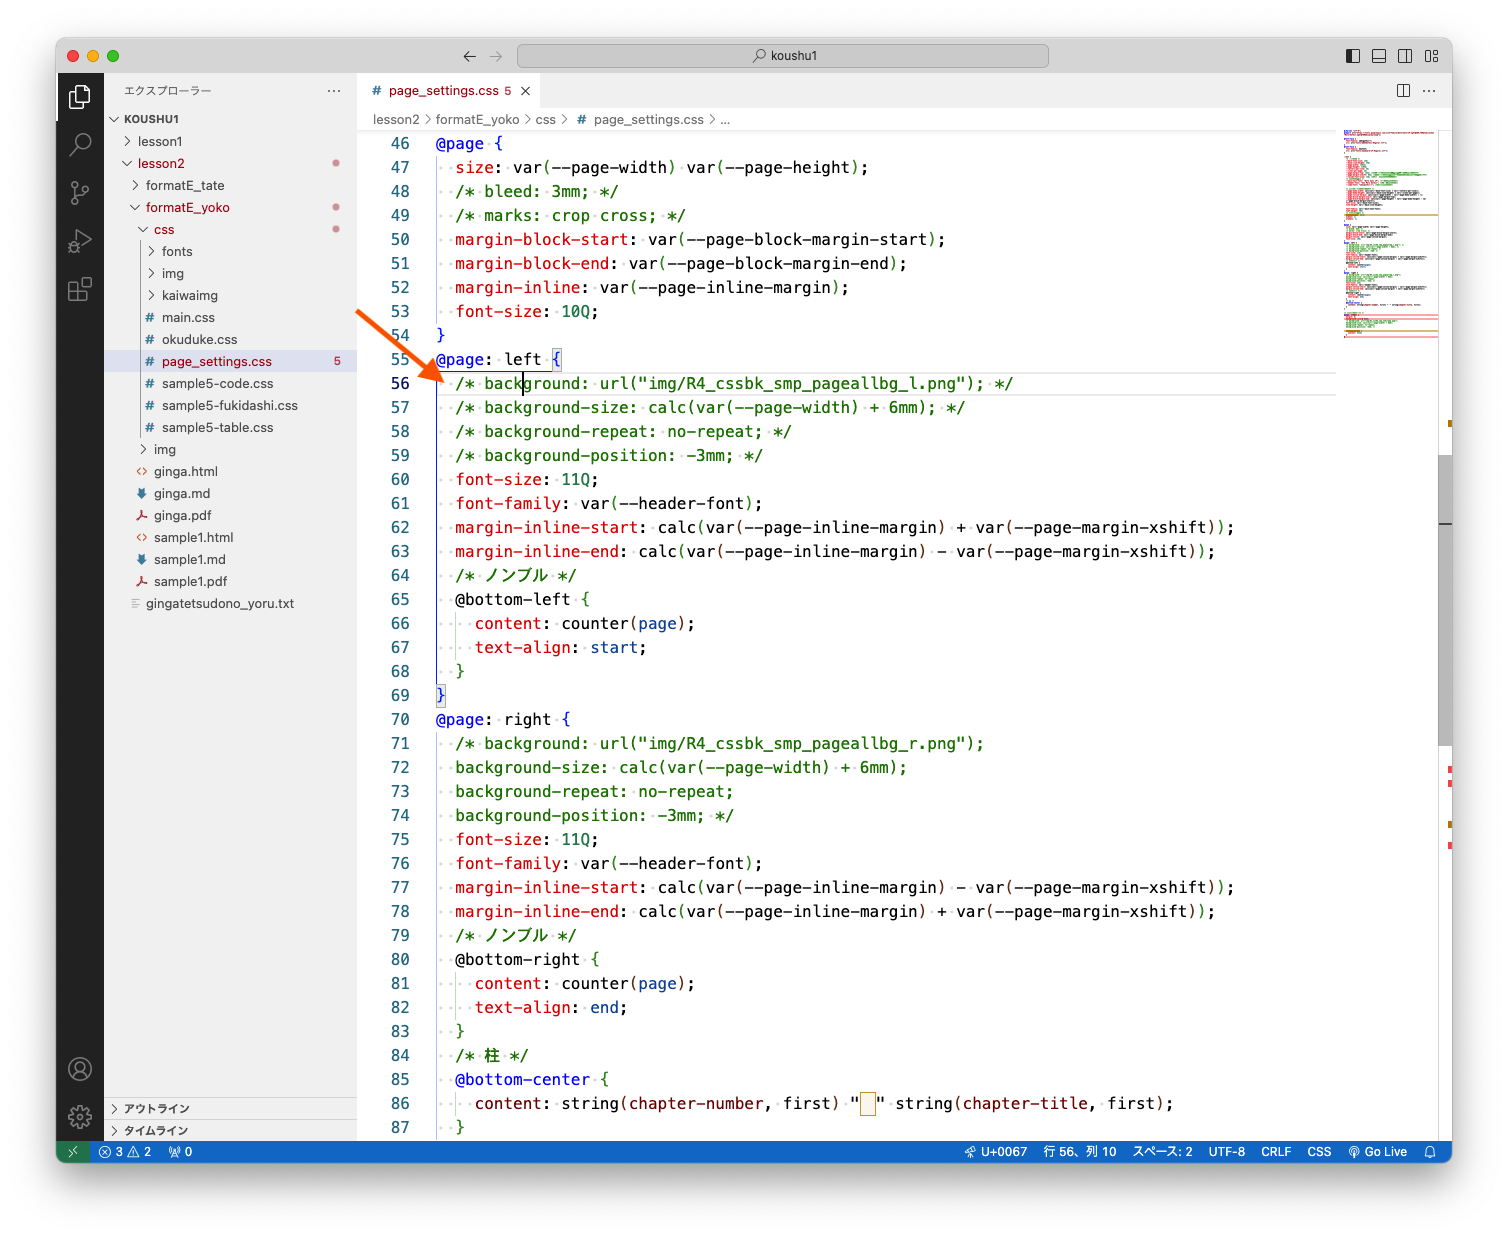
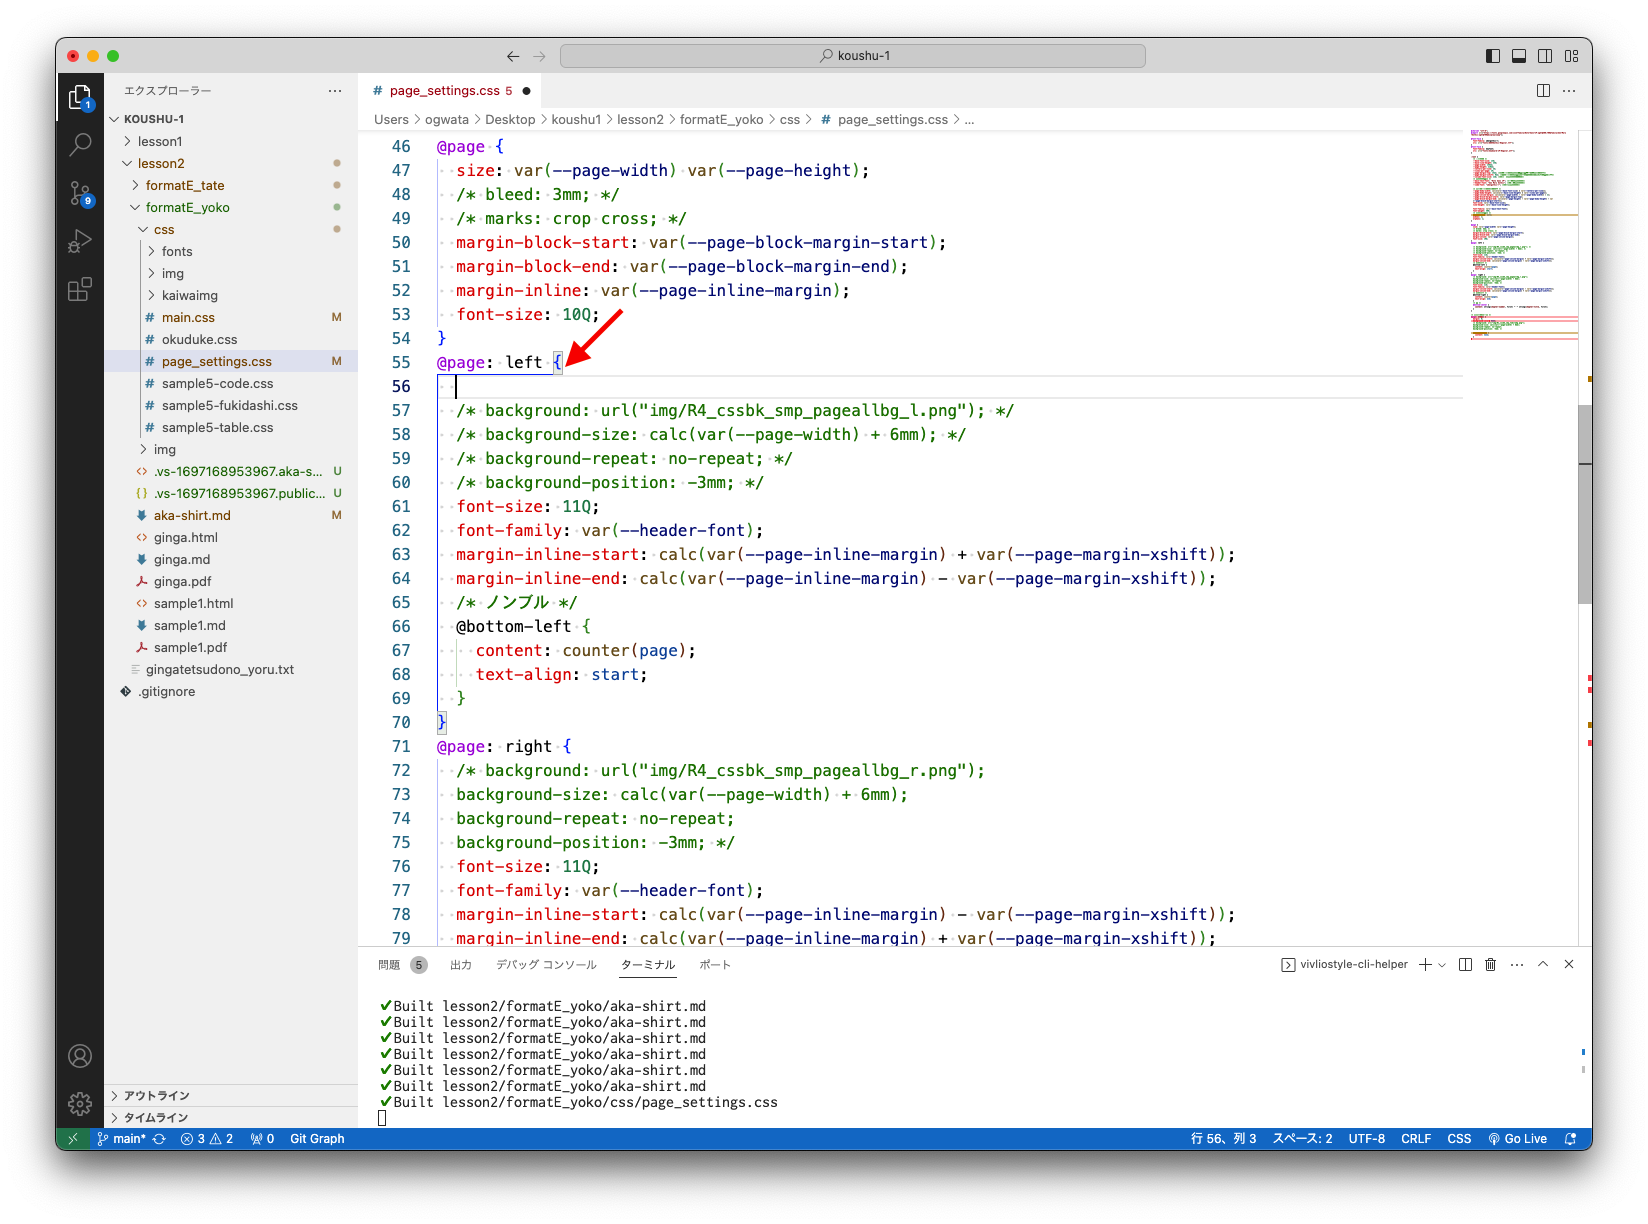
@lwohtsuコメント対応

diff --git a/ja/3-create-your-book-in-vivliostyle-1/1-setting-of-main-text-area.md b/ja/3-create-your-book-in-vivliostyle-1/1-setting-of-main-text-area.md
@@ -28,35 +28,33 @@
 
 - ここからスタイルシートの中の本文領域に関わるプロパティを書き換えて、それぞれの役割を確認していきましょう
 - 13行目、`:root {`以下が本文領域に関わる指定です
-- まず、`--line-height:`の値を`40Q`に書き換えて、プレビューを確認してみましょう**（4:18）**
-    - **補足** この時、接頭辞`--`は[変数（カスタムプロパティ）](https://developer.mozilla.org/ja/docs/Web/CSS/Using_CSS_custom_properties)であることを表します。これはユーザーによって定義された（カスタマイズされた）再利用可能なプロパティです。**もう具体的に詳しく、プロパティとの違いの説明が必要**
+- まず、行送りの値である`--line-height:`を`40Q`に書き換えて、プレビューを確認してみましょう**（4:18）**
+    - **補足** --（ハイフン2つ）で始まる部分は、変数（カスタムプロパティ）というものです。変数に本文の文字サイズ、行送り、1行文字数、1ページ行数、マージンを指定すると、それをもとに自動計算して本文領域のスタイルが自動設定されるようになっています。カスタムプロパティについて詳しく知りたい方は、以下を参照してください。
+        - [CSS カスタムプロパティ（変数）の使用［MDN］](https://developer.mozilla.org/ja/docs/Web/CSS/Using_CSS_custom_properties)
 
 ![](/images/3-create-your-book-in-vivliostyle-1/1-setting-of-main-text-area/3-1-5.png)
 
-- この時プレビューは以下のようになります。行送りが極端に広くなったことが確認できます**（4:36）**
-- つまり、`--line-height:`は行送りの指定です
+- この時プレビューは以下のようになります。行送りが40Q、1ページ行数が20だとページに収まり切らないため、溢れてしまっています。**（4:36）**
 
 ![](/images/3-create-your-book-in-vivliostyle-1/1-setting-of-main-text-area/3-1-6.png)
 
-- つぎに`--line-height:`の値を`24Q`に戻した上で、`--letters-per-line:`を40に減らしてみましょう**（5:20）**
+- つぎに`--line-height:`の値を`24Q`に戻した上で、1行の字詰めの値である`--letters-per-line:`を、`40`に減らしてみましょう**（5:20）**
 
 ![](/images/3-create-your-book-in-vivliostyle-1/1-setting-of-main-text-area/3-1-7.png)
 
-- この時プレビューは以下のようになります。1ページ当たりの行数が減ったことが確認できます。
-- つまり、`--letters-per-line:`は1行の字詰めの指定です**（5:39）**
+- この時プレビューは以下のようになります。字詰めが減ったことが確認できます。**（5:39）**
 
 ![](/images/3-create-your-book-in-vivliostyle-1/1-setting-of-main-text-area/3-1-8.png)
 
-- つぎに`--lines-per-page:`を`15`に減らしてみましょう。
+- つぎに1ページ当たりの行数の値である`--lines-per-page:`を、`15`に減らしてみましょう。
 
 ![](/images/3-create-your-book-in-vivliostyle-1/1-setting-of-main-text-area/3-1-9.png)
 
-- 1ページ当たり15行になったことが確認できます。
-- つまり、`--lines-per-page:`は1ページの行数の指定です
+- 1ページ当たり15行になりました。
 
 ![](/images/3-create-your-book-in-vivliostyle-1/1-setting-of-main-text-area/3-1-10.png)
 
-- つぎに`--page-margin-top:`を`30mm`に増やしてみましょう**（6:52）**
+- つぎに上側マージンを指定する値である`--page-margin-top:`を、`30mm`に増やしてみましょう**（6:52）**
 
 ![](/images/3-create-your-book-in-vivliostyle-1/1-setting-of-main-text-area/3-1-11.png)
 
@@ -64,10 +62,10 @@
 
 ![](/images/3-create-your-book-in-vivliostyle-1/1-setting-of-main-text-area/3-1-12.png)
 
-- つぎに`--page-margin-xshift:`を`4mm`に変更してみましょう**（7:36）**
+- つぎにノド側から小口側に本文領域をシフトさせる`--page-margin-xshift:`を、`4mm`に変更してみましょう**（7:36）**
 
 ![](/images/3-create-your-book-in-vivliostyle-1/1-setting-of-main-text-area/3-1-13.png)
 
-- ノド側のマージンが広がった（ノド側に本文領域がシフトした）ことがわかります。
+- ノド側のマージンが広がったことがわかります。
 
 ![](/images/3-create-your-book-in-vivliostyle-1/1-setting-of-main-text-area/3-1-14.png)

diff --git a/ja/4-create-your-book-in-vivliostyle-2/2-page-background-settings.md b/ja/4-create-your-book-in-vivliostyle-2/2-page-background-settings.md
@@ -2,35 +2,28 @@
 
 1. page_settings.cssを開きます**（14:31）**
 2. 55行目、`@page: left {`以下を編集することで、左ページのスタイルを設定します。
-3. 56行目`/* background: url("img/R4_cssbk_smp_pageallbg_l.png"); */`とある行（赤矢印）にカーソルを置いた状態で、Macでは`command`+`/`、Windowsでは`ctrl`+`/`を入力します。
+3. 55行目の行端（矢印）にカーソルを置き、enterキーを押して56行目に空行を作ります。
 
 ![](./images/4-create-your-book-in-vivliostyle-2/2-page-background-settings/4-2-1.png)
 
-4. コメントアウトが外れました。
-  - ソースコードの一部をプログラムとして無効な状態にすることを「コメントアウト」といいます。CSSでは`/*`と`*/`で囲むとコメントアウトできます。
-  - ショートカットはMacでは`command`+`/`、Windowsでは`Ctrl`+`/`です。
-  - つまりコメントアウトとその解除がトグル（同じ操作で2つの状態が交互に切り替わる）になっています。
-
-![](./images/4-create-your-book-in-vivliostyle-2/2-page-background-settings/4-2-2.png)
-
-5. 56行目を修正していきます。文字列`background`の右端にカーソルを置いた状態で、ハイフン`-`を入力すると、VSCodeのサジェスト機能が働いて、`background-`に続く可能性のあるプロパティ候補が表示されます。**（18:27）**
+4. 56行目にプロパティを入力していきます。`background`と入力した後、ハイフン`-`を入力すると、VSCodeのサジェスト機能が働いて、`background-`に続く可能性のあるプロパティ候補が表示されます。**（18:27）**
   - 矢印キーでメニュー項目を移動、エンターキーで選択できます。
   - ここでは`background-color`を選択します。
 
-![](./images/4-create-your-book-in-vivliostyle-2/2-page-background-settings/4-2-3.png)
+![](./images/4-create-your-book-in-vivliostyle-2/2-page-background-settings/4-2-2.png)
 
-7. つづいて`background-color`の値（色）を指定します。
+5. つづいて`background-color`の値（色）を指定します。
   - `background-color`の右端にカーソルを置いた状態でコロン`:`を入力すると、VSCodeのサジェスト機能が働いて、`background-color`に続く可能性のある、値（色）の候補が表示されます。
   - 前項と同様に矢印キーでメニュー項目を移動、エンターキーで選択できます。
 
+![](./images/4-create-your-book-in-vivliostyle-2/2-page-background-settings/4-2-3.png)
+
+6. ここでは`#fffaf0`（floralwhite）を選択します。
+
 ![](./images/4-create-your-book-in-vivliostyle-2/2-page-background-settings/4-2-4.png)
 
-8. ここでは`#fffaf0`（floralwhite）を選択します。
+7. ファイルを保存して、プレビューを表示させてみましょう。なかなかいい感じです。
 
 ![](./images/4-create-your-book-in-vivliostyle-2/2-page-background-settings/4-2-5.png)
 
-9. ファイルを保存して、プレビューを表示させてみましょう。なかなかいい感じです。
-
-![](./images/4-create-your-book-in-vivliostyle-2/2-page-background-settings/4-2-6.png)
-
-10. 同じ要領で、70行目、`@page: right {`以下を編集することで、右ページのスタイルを設定できます。同様の手順で`background-color: #fffaf0;`を設定してみてください。
+8. 同じ要領で、71行目、`@page: right {`以下を編集することで、右ページのスタイルを設定できます。同様の手順で`background-color: #fffaf0;`を設定してみてください。

diff --git a/ja/3-create-your-book-in-vivliostyle-1/2-create-a-new-markdown-file.md b/ja/3-create-your-book-in-vivliostyle-1/2-create-a-new-markdown-file.md
@@ -29,7 +29,7 @@
 
 ![](/images/3-create-your-book-in-vivliostyle-1/2-create-a-new-markdown-file/3-2-5.png)
 
-- プレビューが表示されました。この時、スタイルはデフォルトのスタイルシートが適用されるので、ページ分割はされていません。
+- プレビューが表示されました。見て分かるように、前節まで書いてきたスタイルシートは適用されていないことにご注意ください。
 
 ![](/images/3-create-your-book-in-vivliostyle-1/2-create-a-new-markdown-file/3-2-6.png)
 
@@ -44,6 +44,6 @@
 
 ![](/images/3-create-your-book-in-vivliostyle-1/2-create-a-new-markdown-file/3-2-8.png)
 
-4. 「vivliostyle-cli-helper」でプレビューしてみると（操作は前項「Markdownファイルを開き、プレビューを表示させる」参照）、`ginga.md`のスタイルシートがそのまま新しいMarkdownファイルにも適用されるようになり、ページ分割がされるようになりました。
+4. 「vivliostyle-cli-helper」でプレビューしてみると（操作は前項「Markdownファイルを開き、プレビューを表示させる」参照）、`ginga.md`のスタイルシートがそのまま新しいMarkdownファイルにも適用されるようになりました。
 
 ![](/images/3-create-your-book-in-vivliostyle-1/2-create-a-new-markdown-file/3-2-9.png)

diff --git a/ja/3-create-your-book-in-vivliostyle-1/3-decoration-around-headings.md b/ja/3-create-your-book-in-vivliostyle-1/3-decoration-around-headings.md
@@ -80,6 +80,7 @@
 
 ![](/images/3-create-your-book-in-vivliostyle-1/3-decoration-around-headings/3-3-17.png)
 
-- devツールの表示を確認してみましょう。イラスト画像の本来の位置（H2の疑似要素）は水色の部分に該当し、ここからのタテとヨコのオフセット量をそれぞれ値として指定しています。
+- Developer Toolsの表示を確認してみましょう。イラスト画像の本来の位置（H2の疑似要素）は水色の部分に該当し、ここからのタテとヨコのオフセット量をそれぞれ値として指定しています。
+    - ショートカットは、Macでは`option`+`command`+`i`、Windowsでは`option`+`Ctrl`+`i`です。
 
 ![](/images/3-create-your-book-in-vivliostyle-1/3-decoration-around-headings/3-3-18.png)

diff --git a/ja/4-create-your-book-in-vivliostyle-2/1-how-to-use-googlefont.md b/ja/4-create-your-book-in-vivliostyle-2/1-how-to-use-googlefont.md
@@ -1,6 +1,7 @@
 # Google Fontsの使い方
 
 - 本章から括弧内の数字は[「講師に教わりながら、Vivliostyleで本を作る！ 第2部-2」](https://youtu.be/VnwddnaSsik?si=KlrmYX17cc3VN1wc)の再生時間になります。
+- なお、Google Fontsの画面は執筆時点（2023年10月4日）のものであり、セミナーの開催時、そして『CSS組版 Vivliostyle入門』とも異なることをお断りします。
 
 ## フォントの選択
 
